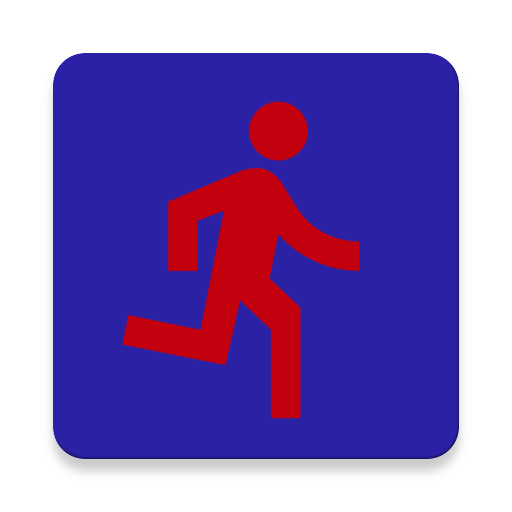
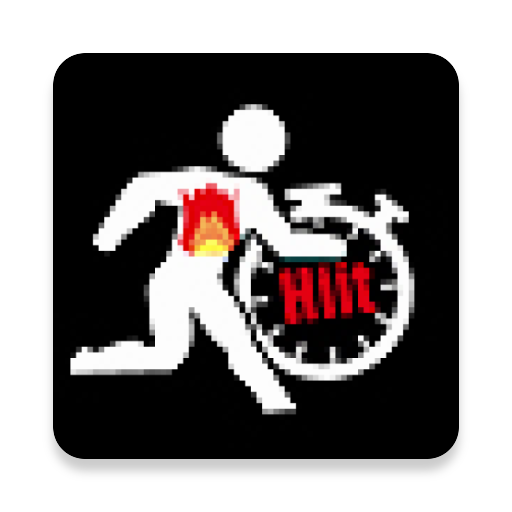
アイコン、レイアウト修正

diff --git a/app/src/main/java/com/nobumoko/hiit/TopScreen/TopPresenter.kt b/app/src/main/java/com/nobumoko/hiit/TopScreen/TopPresenter.kt
@@ -1,7 +1,6 @@
 package com.nobumoko.hiit.TopScreen
 
 import android.content.Context
-import android.util.Log
 import com.nobumoko.hiit.Model.Constants
 import com.nobumoko.hiit.Model.SettingPreferenceRepository
 import com.nobumoko.hiit.Model.TextToSpeech
@@ -40,7 +39,6 @@ class TopPresenter(
                 view.readyEnd()
                 Observable.concat(workTimer, restTimeer)
                     .doOnSubscribe {
-                        Log.i("Test", "リピート")
                         count += 1
                         view.setCountNow(count)
                         view.repeatStart()
@@ -61,14 +59,13 @@ class TopPresenter(
             .subscribeOn(Schedulers.newThread())
             .observeOn(AndroidSchedulers.mainThread())
             .doOnSubscribe {
-                Log.i("Test", "Sstrt " + state)
-                speechText("Start")
                 view.setBackColor(state)
                 view.setMaxValueOfProgressBar(count.toInt())
                 view.setProgressValueOfProgressBar(count.toInt())
+                view.showToast(state.toString() + " Start")
+                speechText(state.toString() + "Start")
             }
             .doOnNext {
-                Log.i("Test", it.toString())
                 if ((count - it.toInt()) <= 3) {
                     speechText((count - it.toInt()).toString())
                 }
@@ -76,10 +73,7 @@ class TopPresenter(
                 view.showCountDownTimer((count - it.toInt()).toString())
             }
             .doOnComplete {
-                Log.i("Test", "完了")
-                view.setProgressValueOfProgressBar(0)
                 view.showCountDownTimer(0.toString())
-                view.showToast("End")
             }
     }
 
@@ -89,11 +83,7 @@ class TopPresenter(
 
     private fun speechText(speechStr: String) {
         if (pre.getInitTTS() && pre.getUserTTS()) {
-            Log.i("Test", "TTS YES " + pre.getInitTTS() + ":" + pre.getUserTTS())
             tts.speechText(speechStr)
-        } else {
-            Log.i("Test", "TTS No" + pre.getInitTTS() + ":" + pre.getUserTTS())
         }
-
     }
 }

diff --git a/app/src/main/java/com/nobumoko/hiit/SettingScreen/SettingActivity.kt b/app/src/main/java/com/nobumoko/hiit/SettingScreen/SettingActivity.kt
@@ -23,7 +23,7 @@ class SettingActivity : AppCompatActivity(), PickerContract.CallBack, SettingCon
         workTimeEdit.setOnClickListener {
             val dialog = PickerDialog(
                 Constants.SettingData.WORK_TIME,
-                getString(R.string.dialog_title_work_time),
+                getString(R.string.title_work_time),
                 120,
                 30,
                 10)
@@ -32,7 +32,7 @@ class SettingActivity : AppCompatActivity(), PickerContract.CallBack, SettingCon
         restTimeEdit.setOnClickListener {
             val dialog = PickerDialog(
                 Constants.SettingData.REST_TIME,
-                getString(R.string.dialog_title_rest_time),
+                getString(R.string.title_rest_time),
                 60,
                 5,
                 5)
@@ -41,7 +41,7 @@ class SettingActivity : AppCompatActivity(), PickerContract.CallBack, SettingCon
         setCntEdit.setOnClickListener {
             val dialog = PickerDialog(
                 Constants.SettingData.SET_COUNT,
-                getString(R.string.dialog_title_set_count),
+                getString(R.string.title_set_count),
                 10,
                 1,
                 1)

diff --git a/app/src/main/java/com/nobumoko/hiit/Model/SettingPreferenceRepository.kt b/app/src/main/java/com/nobumoko/hiit/Model/SettingPreferenceRepository.kt
@@ -12,7 +12,7 @@ class SettingPreferenceRepository(context: Context) : SettingRepository {
     }
 
     override fun getWorkTime(): Int {
-        return pre.getInt(Constants.SettingData.WORK_TIME.toString(), 0)
+        return pre.getInt(Constants.SettingData.WORK_TIME.toString(), 30)
     }
 
     override fun saveRestTime(time: Int) {
@@ -22,7 +22,7 @@ class SettingPreferenceRepository(context: Context) : SettingRepository {
     }
 
     override fun getRestTime(): Int {
-        return pre.getInt(Constants.SettingData.REST_TIME.toString(), 0)
+        return pre.getInt(Constants.SettingData.REST_TIME.toString(), 10)
     }
 
     override fun saveSetCount(count: Int) {
@@ -32,7 +32,7 @@ class SettingPreferenceRepository(context: Context) : SettingRepository {
     }
 
     override fun getSetCount(): Int {
-        return pre.getInt(Constants.SettingData.SET_COUNT.toString(), 0)
+        return pre.getInt(Constants.SettingData.SET_COUNT.toString(), 4)
     }
 
     override fun saveUseTTS(use: Boolean) {

diff --git a/app/src/main/java/com/nobumoko/hiit/TopScreen/TopActivity.kt b/app/src/main/java/com/nobumoko/hiit/TopScreen/TopActivity.kt
@@ -121,10 +121,10 @@ class TopActivity : AppCompatActivity(), TopContract.View {
     override fun setBackColor(state: Constants.HiitState) {
         when (state) {
             Constants.HiitState.WORK -> {
-                topLayout.setBackgroundColor(Color.RED)
+                txtProgress.setTextColor(Color.RED)
             }
             Constants.HiitState.REST -> {
-                topLayout.setBackgroundColor(Color.BLUE)
+                txtProgress.setTextColor(Color.BLUE)
             }
         }
     }
